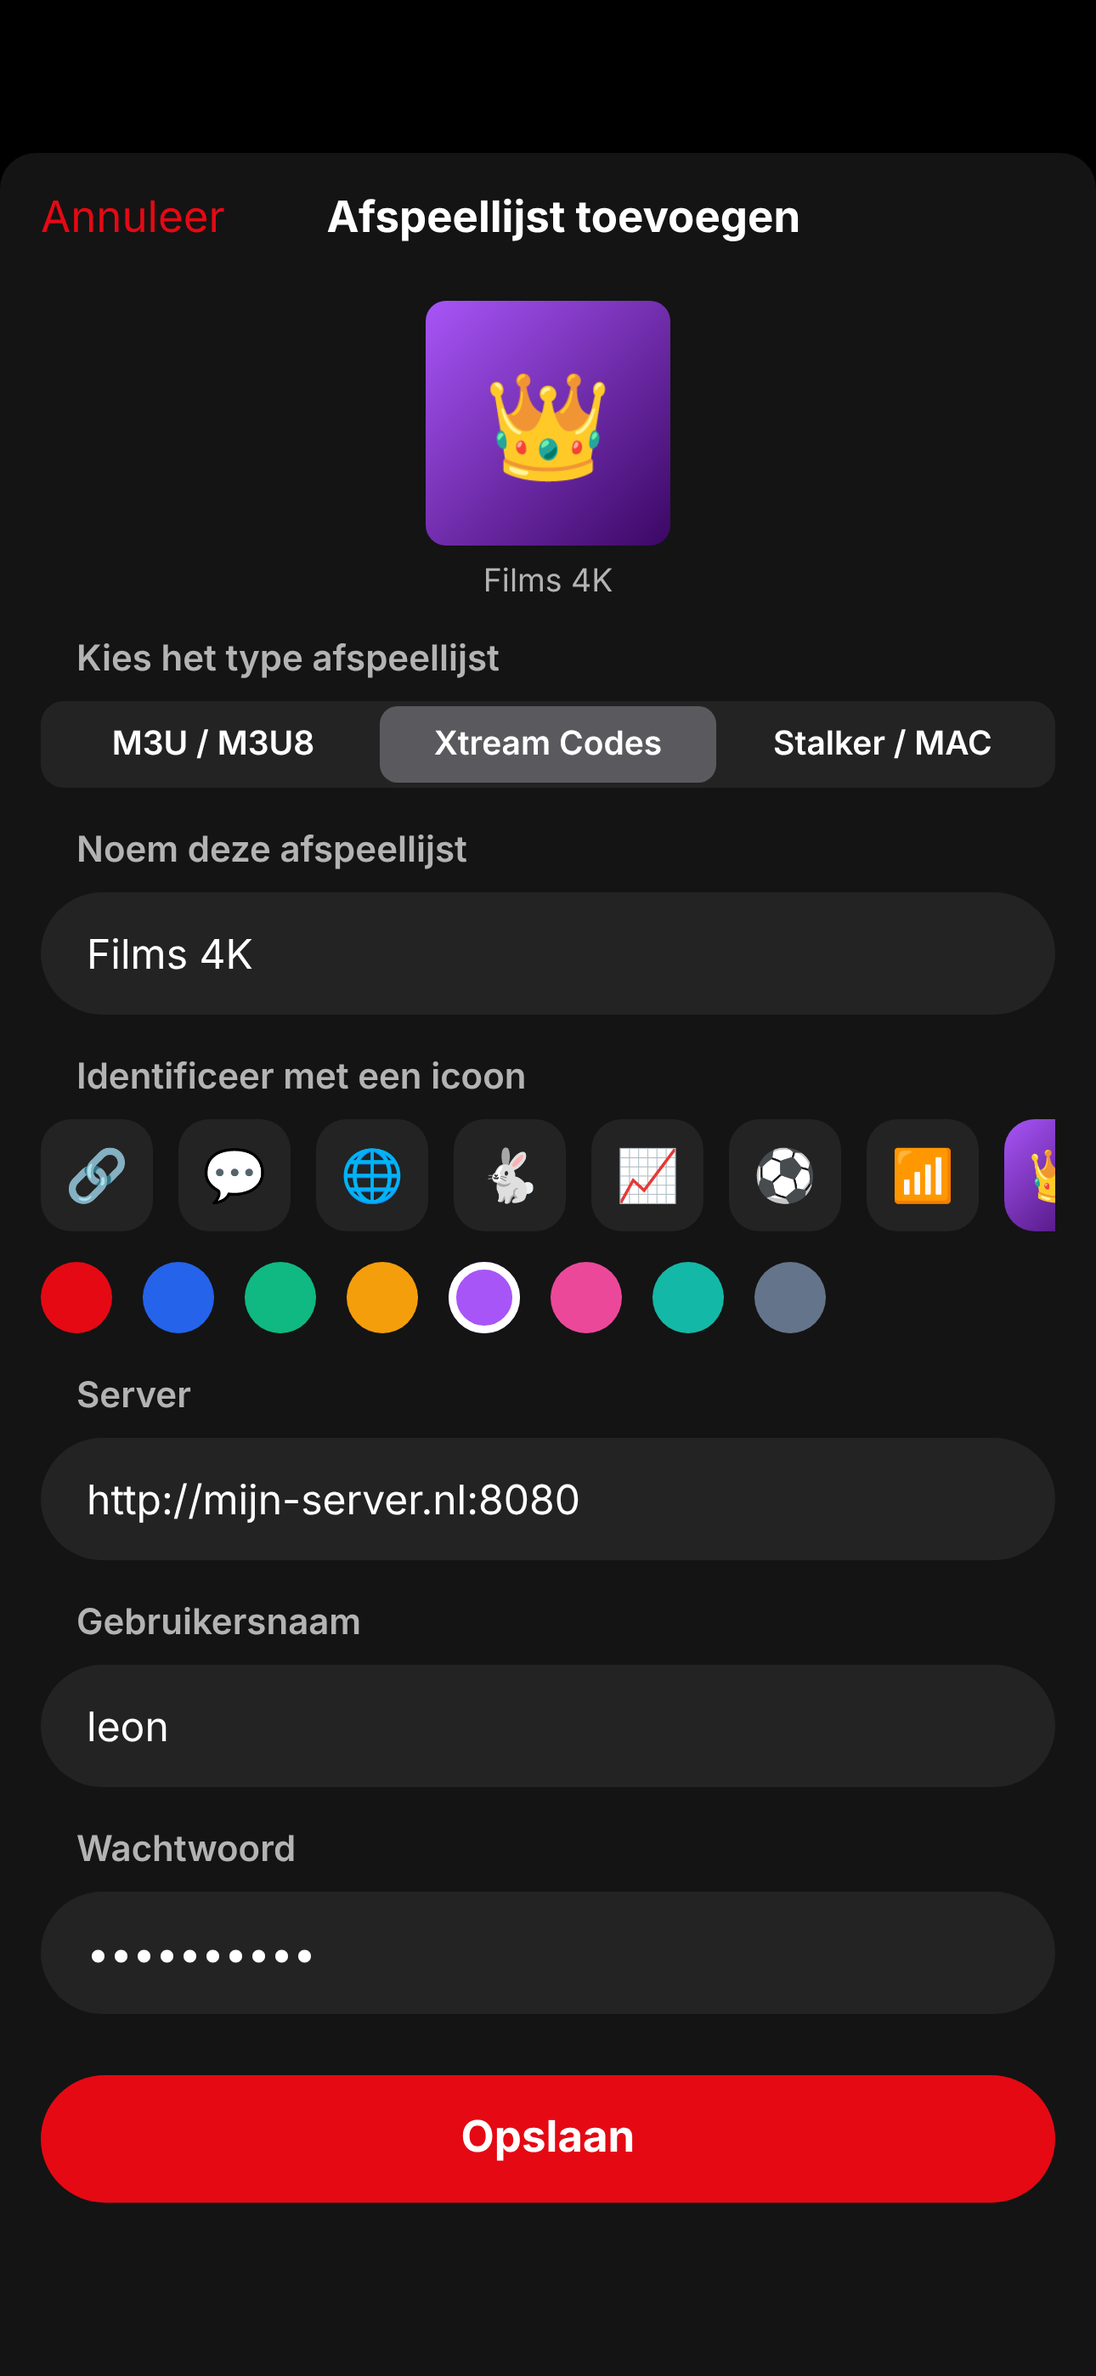
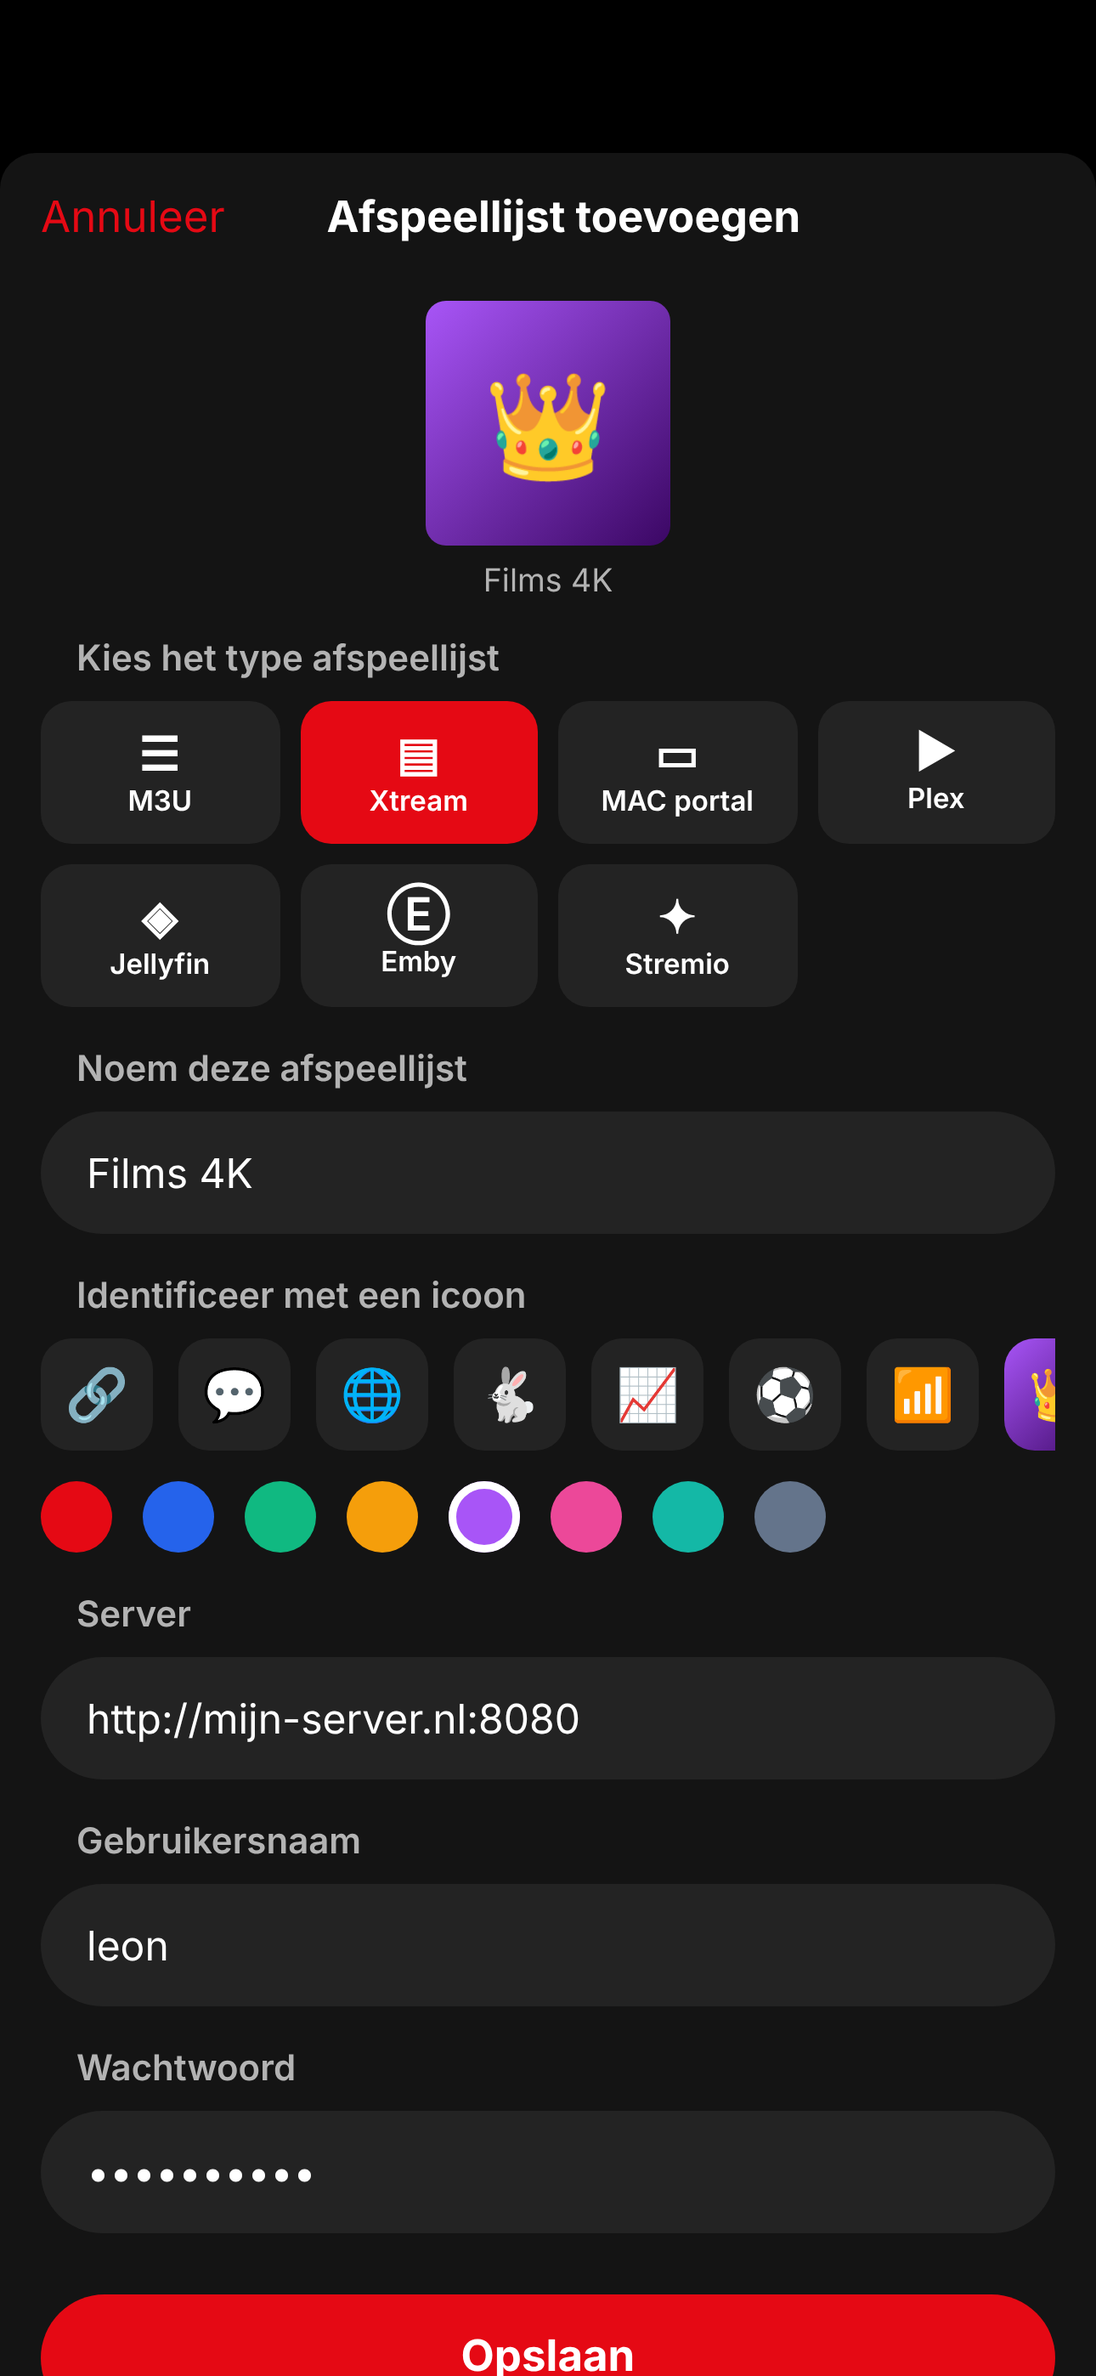
Bingr 1.1.0: README, nieuwe screenshots (gids, multiview, instellingen)
Claude-Session: https://claude.ai/code/session_01QoqqLVTvT2ekCDQmWshsy8

diff --git a/docs/mockups/mockups.html b/docs/mockups/mockups.html
@@ -109,7 +109,7 @@ const screens = {
    <div style="display:flex;justify-content:center;margin:6px 0 14px">${av(3,96,"Films 4K","#B3B3B3")}</div>
    <div style="padding:0 16px">
    <div style="color:#b3b3b3;font-weight:600;font-size:14px;margin:0 0 8px 14px">Kies het type afspeellijst</div>
-   <div style="display:flex;background:#232323;border-radius:9px;padding:2px;font-size:13px;font-weight:600">${["M3U / M3U8","Xtream Codes","Stalker / MAC"].map((t,i)=>`<div style="flex:1;text-align:center;padding:7px;border-radius:7px;${i==1?'background:#5a5a5e':''}">${t}</div>`).join('')}</div>
+   <div style="display:grid;grid-template-columns:repeat(4,1fr);gap:8px">${[["☰","M3U"],["▤","Xtream"],["▭","MAC portal"],["▶","Plex"],["◈","Jellyfin"],["Ⓔ","Emby"],["✦","Stremio"]].map((k,i)=>`<div style="background:${i==1?'var(--red)':'#232323'};border-radius:12px;padding:10px 4px;text-align:center;font-size:11px;font-weight:600"><div style="font-size:18px">${k[0]}</div>${k[1]}</div>`).join('')}</div>
    ${[["Noem deze afspeellijst","Films 4K",1]].map(f=>`<div style="color:#b3b3b3;font-weight:600;font-size:14px;margin:16px 0 8px 14px">${f[0]}</div><div style="background:#232323;border-radius:999px;padding:14px 18px;font-size:16px">${f[1]}</div>`).join('')}
    <div style="color:#b3b3b3;font-weight:600;font-size:14px;margin:16px 0 8px 14px">Identificeer met een icoon</div>
    <div style="display:flex;gap:10px;overflow:hidden">${["🔗","💬","🌐","🐇","📈","⚽","📶","👑","🔥"].map((s,i)=>`<div style="width:44px;height:44px;flex:none;border-radius:12px;display:grid;place-items:center;font-size:20px;background:${i==7?'linear-gradient(135deg,#A855F7,#3B0764)':'#232323'}">${s}</div>`).join('')}</div>
@@ -117,7 +117,44 @@ const screens = {
    ${[["Server","http://mijn-server.nl:8080"],["Gebruikersnaam","leon"],["Wachtwoord","••••••••••"]].map(f=>`<div style="color:#b3b3b3;font-weight:600;font-size:14px;margin:16px 0 8px 14px">${f[0]}</div><div style="background:#232323;border-radius:999px;padding:14px 18px;font-size:16px">${f[1]}</div>`).join('')}
    <div class="btn r" style="width:100%;padding:15px;border-radius:999px;font-size:17px;margin-top:24px">Opslaan</div></div></div></div>`,
 
+
+ ios_guide:()=>`<div class="screen"><div class="status"><span>20:45</span><span>●●● 5G ▮</span></div>
+   <div style="display:flex;justify-content:space-between;align-items:center;padding:8px 16px"><div style="font-size:34px;font-weight:800">Live TV</div><div style="display:flex;gap:18px;color:var(--red);font-size:22px">▤ ▦</div></div>
+   <div style="display:flex;gap:8px;padding:6px 16px 10px">${["★ Favorieten","◷ Recent","Alle zenders","Sport"].map((g,i)=>`<span class="pill ${i==2?'on':''}" style="${i!=2?'background:#232323':''};white-space:nowrap">${g}</span>`).join('')}</div>
+   <div style="display:flex">
+    <div style="width:130px;flex:none"><div style="height:30px"></div>${CH.slice(0,9).map(c=>`<div style="height:62px;background:#181818;border-bottom:1px solid #000;display:flex;align-items:center;gap:8px;padding:0 8px;font-size:11px;font-weight:600"><span style="color:${c[1]};font-weight:900;font-size:10px;width:42px">${c[0].split(' ')[0]}</span>${c[0]}</div>`).join('')}</div>
+    <div style="flex:1;overflow:hidden;position:relative">
+      <div style="height:30px;display:flex;color:#b3b3b3;font-size:11px;font-weight:600">${["20:00","20:30","21:00","21:30"].map(t=>`<div style="width:150px;flex:none;padding:8px 4px">${t}</div>`).join('')}</div>
+      ${CH.slice(0,9).map((c,r)=>{let x=0;const blocks=[[c[2],[120,60,180,90,60,150,150,120,90][r]],["Volgend programma",[150,120,90,150,180,120,60,150,120][r]],["Late show",200]];return `<div style="height:62px;position:relative;background:#101010;border-bottom:1px solid #000">${blocks.map((b,i)=>{const w=b[1];const el=`<div style="position:absolute;left:${x+1}px;top:2px;width:${w-3}px;height:56px;border-radius:4px;background:${i==0?'#3A1418':'#232323'};padding:6px 8px;overflow:hidden"><div style="font-size:12px;font-weight:600;white-space:nowrap">${b[0]}</div><div style="font-size:10px;color:#b3b3b3">${i==0?'20:00 – 21:00':'21:00 – 22:00'}</div>${i==1&&r==2?'<div style="position:absolute;top:4px;right:6px;color:var(--imdb);font-size:10px">🔔</div>':''}</div>`;x+=w;return el}).join('')}</div>`}).join('')}
+      <div style="position:absolute;top:0;bottom:0;left:132px;width:2px;background:var(--red)"></div>
+    </div></div>
+   <div class="tabbar">${["Home","Live TV","Films","Series","Zoeken","Mijn Bingr"].map((t,i)=>`<div class="${i==1?'on':''}"><span style="font-size:22px">${["⌂","◉","▤","▦","⌕","◯"][i]}</span>${t}</div>`).join('')}</div></div>`,
+ ios_settings:()=>`<div class="screen" style="background:#000"><div class="status"><span>20:46</span><span>●●● 5G ▮</span></div>
+   <div style="font-size:34px;font-weight:800;padding:8px 16px 4px">Mijn Bingr</div>
+   ${[["TRAKT",[["Ingelogd als","leon_vdl"],["Bekeken","412 films · 2.380 afleveringen"],["⟲ Nu synchroniseren",""]]],
+      ["SPELER",[["Speler-engine","Automatisch"],["AirPlay & Chromecast","✓"]]],
+      ["KINDERSLOT",[["🔒 Vergrendeld",""],["Volwassenengroepen automatisch vergrendelen","●"],["Wijzig pincode",""]]],
+      ["TAAL",[["App-taal","Systeem ›"]]],
+      ["ICLOUD",[["Afspeellijsten","4"],["Kijkvoortgang","37 titels"],["Laatste synchronisatie","20:45"]]]].map(sec=>`
+     <div style="color:#8e8e93;font-size:13px;margin:18px 32px 6px">${sec[0]}</div>
+     <div style="background:#1c1c1e;border-radius:12px;margin:0 16px">${sec[1].map((r,i)=>`<div style="display:flex;justify-content:space-between;padding:12px 16px;font-size:16px;${i?'border-top:1px solid #2c2c2e':''}"><span style="${r[0].startsWith('⟲')||r[0].startsWith('Wijzig')?'color:var(--red)':''}">${r[0]}</span><span style="color:${r[1]=='●'?'var(--green)':'#8e8e93'}">${r[1]=='●'?'⬤':r[1]}</span></div>`).join('')}</div>`).join('')}
+   <div class="tabbar">${["Home","Live TV","Films","Series","Zoeken","Mijn Bingr"].map((t,i)=>`<div class="${i==5?'on':''}"><span style="font-size:22px">${["⌂","◉","▤","▦","⌕","◯"][i]}</span>${t}</div>`).join('')}</div></div>`,
  // ---------- tvOS ----------
+
+ tv_multiview:()=>`<div class="screen" style="display:grid;grid-template-columns:1fr 1fr;grid-template-rows:1fr 1fr">
+   ${[0,1,2,3].map(i=>{const p=P[[1,3,6,9][i]];const c=CH[[5,0,4,6][i]];return `<div style="position:relative;background:radial-gradient(circle at 40% 40%,${p[2]},${p[1]} 80%);${i==0?'outline:5px solid var(--red);outline-offset:-5px':''}">
+     <div style="position:absolute;inset:0;display:grid;place-items:center;font-size:64px;font-weight:900;opacity:.25">${c[2]}</div>
+     <div style="position:absolute;left:24px;bottom:24px;background:#0009;border-radius:999px;padding:10px 20px;font-size:24px;font-weight:600">${i==0?'🔊':'🔇'} ${c[0]}</div></div>`}).join('')}
+   <div style="position:absolute;top:30px;left:60px;font-size:30px;font-weight:700">Multiview</div></div>`,
+ tv_guide:()=>`<div class="screen">
+   <div style="position:absolute;top:40px;left:0;right:0;display:flex;justify-content:center;gap:12px;font-size:29px;font-weight:600">${["Home","Live TV","Films","Series","Zoeken","Mijn Bingr"].map((t,i)=>`<span style="padding:10px 26px;border-radius:999px;${i==1?'background:#fff;color:#000':'color:#ccc'}">${t}</span>`).join('')}</div>
+   <div style="position:absolute;top:140px;left:60px;right:60px;display:flex">
+    <div style="width:280px;flex:none"><div style="height:50px"></div>${CH.map(c=>`<div style="height:104px;background:#181818;border-bottom:2px solid #000;display:flex;align-items:center;gap:16px;padding:0 18px;font-size:22px;font-weight:600"><span style="color:${c[1]};font-weight:900;font-size:18px;width:80px">${c[0].split(' ')[0]}</span></div>`).join('')}</div>
+    <div style="flex:1;overflow:hidden;position:relative">
+      <div style="height:50px;display:flex;color:#b3b3b3;font-size:22px;font-weight:600">${["20:00","20:30","21:00","21:30","22:00","22:30"].map(t=>`<div style="width:300px;flex:none;padding:10px 8px">${t}</div>`).join('')}</div>
+      ${CH.map((c,r)=>{let x=0;const ws=[[240,420,600],[120,480,600],[360,300,600],[180,600,300],[600,300,300],[600,240,300],[300,300,600],[420,300,480]][r];const names=[c[2],"Volgend programma","Late show"];return `<div style="height:104px;position:relative;background:#101010;border-bottom:2px solid #000">${ws.map((w,i)=>{const el=`<div style="position:absolute;left:${x+2}px;top:4px;width:${w-6}px;height:94px;border-radius:8px;background:${i==0?'#3A1418':'#232323'};padding:14px 16px;overflow:hidden;${r==1&&i==1?'outline:4px solid #fff;transform:scale(1.04)':''}"><div style="font-size:24px;font-weight:600;white-space:nowrap">${names[i]}</div><div style="font-size:19px;color:#b3b3b3;margin-top:4px">${i==0?'20:00':'21:00'}</div></div>`;x+=w;return el}).join('')}</div>`}).join('')}
+      <div style="position:absolute;top:0;bottom:0;left:260px;width:4px;background:var(--red)"></div>
+    </div></div></div>`,
  tv_home:()=>`<div class="screen">
    <div style="position:absolute;inset:0;height:820px;background:radial-gradient(circle at 75% 35%,#c0392b,transparent 55%),linear-gradient(90deg,#000 25%,#3a0a0a)"></div>
    <div style="position:absolute;right:120px;top:20px;width:520px;height:780px;background:radial-gradient(circle at 35% 25%,#ff5a3c,transparent 55%),linear-gradient(170deg,#c0392b,#3a0a0a 75%);-webkit-mask:linear-gradient(90deg,transparent,#000 40%);display:flex;align-items:flex-end;justify-content:center;padding:40px;font-weight:900;font-size:56px">THE LAST SIGNAL</div>

diff --git a/README.md b/README.md
@@ -1,7 +1,9 @@
 # Bingr
 
-Native IPTV-app voor **iPhone, iPad en Apple TV** met de look & feel van Netflix.
-SwiftUI · iOS 17+ · tvOS 17+ · VLC-engine.
+[![Build](https://github.com/LRvdLinden/iptv-ios-appletv/actions/workflows/build.yml/badge.svg)](https://github.com/LRvdLinden/iptv-ios-appletv/actions/workflows/build.yml)
+
+Native IPTV- en mediaspeler voor **iPhone, iPad, Mac en Apple TV** met de look & feel van Netflix.
+SwiftUI · iOS 17+ · tvOS 17+ · Apple- én VLC-engine · 11 talen.
 
 ## Screenshots
 
@@ -12,8 +14,10 @@ SwiftUI · iOS 17+ · tvOS 17+ · VLC-engine.
 | Splash | Afspeellijst kiezen | Home |
 |:---:|:---:|:---:|
 | <img src="docs/screenshots/ios_splash.png" width="240"> | <img src="docs/screenshots/ios_picker.png" width="240"> | <img src="docs/screenshots/ios_home.png" width="240"> |
-| **Serie + Trakt-vinkjes** | **Live TV** | **Afspeellijst toevoegen** |
-| <img src="docs/screenshots/ios_detail.png" width="240"> | <img src="docs/screenshots/ios_live.png" width="240"> | <img src="docs/screenshots/ios_add.png" width="240"> |
+| **Serie + Trakt-vinkjes** | **Live TV** | **Tv-gids** |
+| <img src="docs/screenshots/ios_detail.png" width="240"> | <img src="docs/screenshots/ios_live.png" width="240"> | <img src="docs/screenshots/ios_guide.png" width="240"> |
+| **Afspeellijst toevoegen** | **Instellingen** | |
+| <img src="docs/screenshots/ios_add.png" width="240"> | <img src="docs/screenshots/ios_settings.png" width="240"> | |
 
 ### Apple TV
 
@@ -22,27 +26,42 @@ SwiftUI · iOS 17+ · tvOS 17+ · VLC-engine.
 | <img src="docs/screenshots/tv_home.png" width="420"> | <img src="docs/screenshots/tv_picker.png" width="420"> |
 | **Serie + afleveringen** | **Live TV** |
 | <img src="docs/screenshots/tv_detail.png" width="420"> | <img src="docs/screenshots/tv_live.png" width="420"> |
+| **Tv-gids** | **Multiview** |
+| <img src="docs/screenshots/tv_guide.png" width="420"> | <img src="docs/screenshots/tv_multiview.png" width="420"> |
 | **Trakt koppelen** | |
 | <img src="docs/screenshots/tv_trakt.png" width="420"> | |
 
 ## Functies
 
-- **Geanimeerde splash** ("tudum"-stijl: vallende letters, rode gloed, lichtlinten, zoom-in)
-- **Afspeellijst-kiezer** in Netflix-profielstijl: elke afspeellijst heeft een eigen **naam en avatar** (icoon + kleur)
-- Bronnen: **M3U/M3U8 + XMLTV-EPG**, **Xtream Codes** (incl. catch-up/terugkijken), **Stalker/MAC-portal**
-- **iCloud-sync** tussen iPhone, iPad en Apple TV: afspeellijsten, avatars, favorieten, Mijn lijst, kijkvoortgang (iCloud Key-Value Store) en wachtwoorden + Trakt/OpenSubtitles-login (iCloud-sleutelhanger)
-- **Netflix-UI**: billboard, rijen per categorie, Top 10, Verder kijken, Mijn lijst, detailpagina met seizoenen/afleveringen
-- **IMDb**: score, plot, cast, regie, genres (via OMDb, op IMDb-ID) + link naar IMDb
-- **Trailers** (YouTube, via Trakt): in-app op iOS, YouTube-app op Apple TV
-- **Trakt, 2 kanten op**
-  - inloggen met koppelcode + QR (werkt ook op Apple TV)
-  - wat je op Trakt/elders hebt gezien → **vinkjes in Bingr**
-  - afvinken in Bingr (film, aflevering, heel seizoen) → **Trakt-history**
-  - automatisch **scrobblen** tijdens afspelen, Trakt-voortgang = hervatten
-  - Mijn lijst ↔ Trakt-watchlist, Top 10 = Trakt trending in jouw afspeellijst
-- **OpenSubtitles**: inloggen met je account, zoeken op IMDb-ID (+ seizoen/aflevering), taalvoorkeur, automatisch ondertitels laden
-- **Player (VLC)**: .ts / .mkv / HLS, audio- en ondertitelsporen, snelheid, beeldverhouding, slaaptimer, zappen ↑↓ bij live TV
-- **Live TV** (UHF/IPTV+-stijl): groepen, favorieten, recent, nu/straks uit de EPG, gids per zender met terugkijken
+**Bronnen**
+- M3U/M3U8 + XMLTV-EPG, **Xtream Codes** (incl. catch-up), **Stalker/MAC-portal**
+- **Plex** (inloggen met code op plex.tv/link), **Jellyfin**, **Emby** (films, series, live TV + gids)
+- **Stremio**: inloggen met je Stremio-account of eigen add-on-URL's (Cinemeta-catalogi, directe streams)
+- Afspeellijst-kiezer in Netflix-profielstijl met eigen **naam en avatar** per lijst
+- **Zoeken in al je afspeellijsten** tegelijk
+
+**Kijken**
+- Twee engines: **Apple (AVPlayer)** voor HLS/MP4 met **HDR, Dolby Vision, Dolby Atmos** en automatisch juiste schermmodus op Apple TV; **VLC** voor .ts, .mkv, AC3/DTS en de rest. Automatisch kiezen of zelf instellen
+- **AirPlay** en **Chromecast** (zonder extra SDK)
+- **Automatisch herverbinden** bij haperende of weggevallen streams (met terugval naar de andere engine)
+- **Timeshift**: live tv pauzeren en terugspoelen (HLS-venster of catch-up), knop "terug naar live"
+- **Multiview**: tot 4 streams tegelijk, geluid van het geselecteerde beeld
+- Audio- en ondertitelsporen, **OpenSubtitles** (inloggen, zoeken op IMDb-ID, automatisch laden), snelheid, beeldverhouding, slaaptimer, zappen ↑↓
+
+**Gids & beheer**
+- **Tv-gids als raster** met nu-lijn, programma-details, **terugkijken** en **herinneringen** (melding op iPhone/iPad, banner op Apple TV)
+- **Beheren**: groepen en zenders hernoemen, herschikken, samenvoegen en verbergen
+- **Kinderslot** met pincode: groepen op slot, volwassenengroepen automatisch, 30 min ontgrendelen
+
+**Netflix-ervaring**
+- Geanimeerde splash, billboard, rijen, Top 10 (Trakt trending in jouw lijst), Verder kijken, Mijn lijst
+- **IMDb**-score, plot, cast (via OMDb) en **trailers** (via Trakt)
+- **Trakt, 2 kanten op**: koppelcode + QR, vinkjes uit Trakt in de app, afvinken in de app → Trakt, scrobblen, watchlist
+
+**Overal hetzelfde**
+- **iCloud-sync** tussen iPhone, iPad, Mac en Apple TV: afspeellijsten, avatars, favorieten, Mijn lijst, kijkvoortgang, herinneringen, aanpassingen en kinderslot; logins via de iCloud-sleutelhanger
+- **11 talen**: Engels, Nederlands, Duits, Frans, Spaans, Italiaans, Portugees, Turks, Pools, Arabisch (rechts-naar-links) en Chinees. Volgt de systeemtaal of kies zelf in Mijn Bingr
+- **Mac**: draait als iPad-app op Apple-silicon-Macs
 
 ## Installeren
 
@@ -59,25 +78,36 @@ SwiftUI · iOS 17+ · tvOS 17+ · VLC-engine.
    | OpenSubtitles | https://www.opensubtitles.com/consumers | "API consumer" aanmaken |
    | IMDb-gegevens (OMDb) | https://www.omdbapi.com/apikey.aspx | gratis: 1000 verzoeken/dag; titels worden gecachet |
 3. **Signing**: kies in Xcode je Team voor beide targets (`Bingr` en `BingrTV`).
-4. **iCloud**: zet bij beide targets de capability *iCloud → Key-value storage* aan (staat al in de entitlements) en houd dezelfde Team-ID aan, dan delen iOS en tvOS automatisch dezelfde data.
+4. **iCloud**: zet bij beide targets de capability *iCloud → Key-value storage* aan (staat al in de entitlements) en houd dezelfde Team-ID aan.
+
+Elke push naar `main` wordt door GitHub Actions gebouwd voor iOS en tvOS (simulator, zonder signing). Het build-rapport staat op de branch `ci-logs`.
+
+## Vertalingen
+
+Alle teksten staan in de code in het Engels (`L("Play")`) en worden vertaald via `Shared/Resources/Translations.json`.
+`python3 tools/extract_strings.py` controleert of elke tekst in elke taal vertaald is en of de `%@`/`%d`-codes kloppen (draait ook in CI).
 
 ## Structuur
 
 ```
 Shared/
-  App/            app-start, AppState (splash → kiezer → app)
+  App/            app-start, AppState (splash → kiezer → app), herinneringsbanner
   Models/         playlist, zender, film, serie, EPG
-  Providers/      M3U-, XMLTV-, Xtream- en Stalker-clients + cache
+  Providers/      M3U, XMLTV, Xtream, Stalker, Plex, Jellyfin/Emby, Stremio + cache en aanpassingen
   Metadata/       IMDb (OMDb) + titels opschonen
   Trakt/          login, sync, scrobble, trending
   OpenSubtitles/  login, zoeken, downloaden
-  Player/         VLC-player + bedieningspanelen
-  Storage/        iCloud KV-store + iCloud-sleutelhanger
-  UI/             Netflix-thema, kaarten, schermen
+  Player/         Apple/VLC-engines, Chromecast, AirPlay, multiview, panelen
+  Storage/        iCloud KV-store, iCloud-sleutelhanger, kinderslot, herinneringen
+  Localization/   taalsysteem (L())
+  Resources/      Translations.json
+  UI/             Netflix-thema, kaarten, schermen (home, live, gids, beheren, zoeken, instellingen)
 iOS/  tvOS/       iconen, Info.plist & entitlements (gegenereerd door XcodeGen)
+tools/            vertaalcontrole
 ```
 
 ## Opmerkingen
 
 - IMDb heeft geen gratis publieke API; daarom IMDb-gegevens via OMDb en trailers/IMDb-ID's via Trakt.
-- Bingr is een speler: je gebruikt je eigen, legale afspeellijsten.
+- Niet overgenomen van UHF: **VPN-koppeling** (vereist afspraken met VPN-aanbieders en een speciale Apple-toestemming — gebruik gewoon je eigen VPN-app) en **opnemen (DVR)** (vereist een aparte server-app thuis; catch-up dekt veel daarvan).
+- Bingr is een speler: je gebruikt je eigen, legale afspeellijsten en mediaservers.
